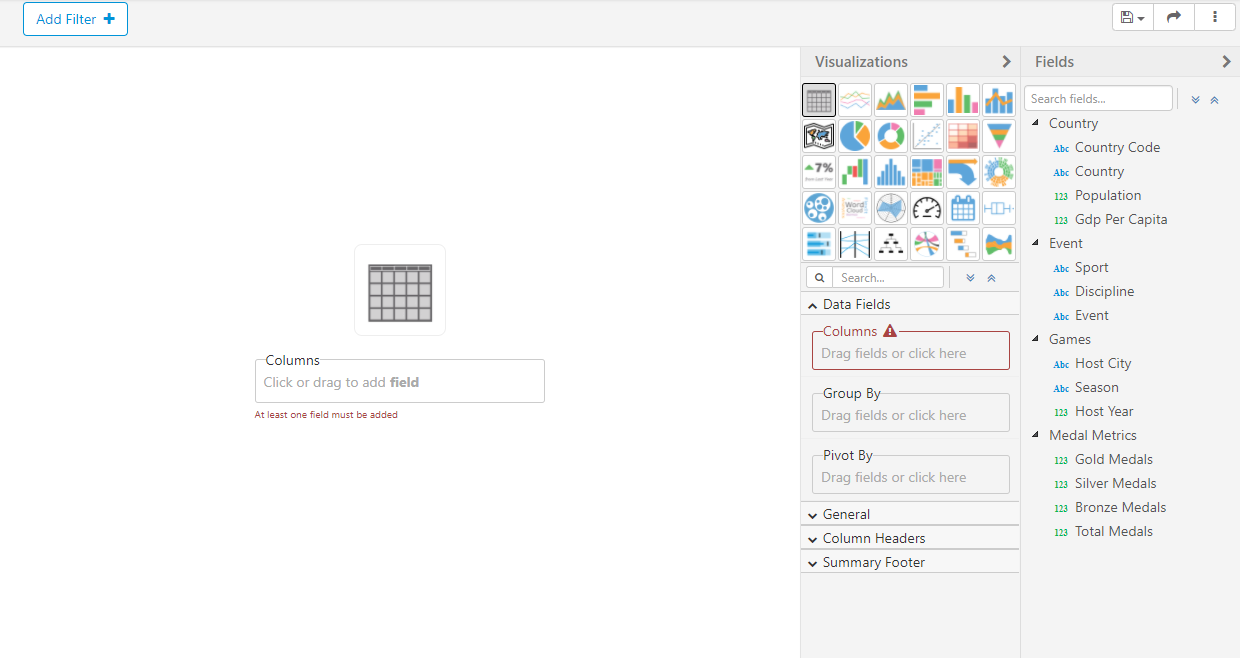
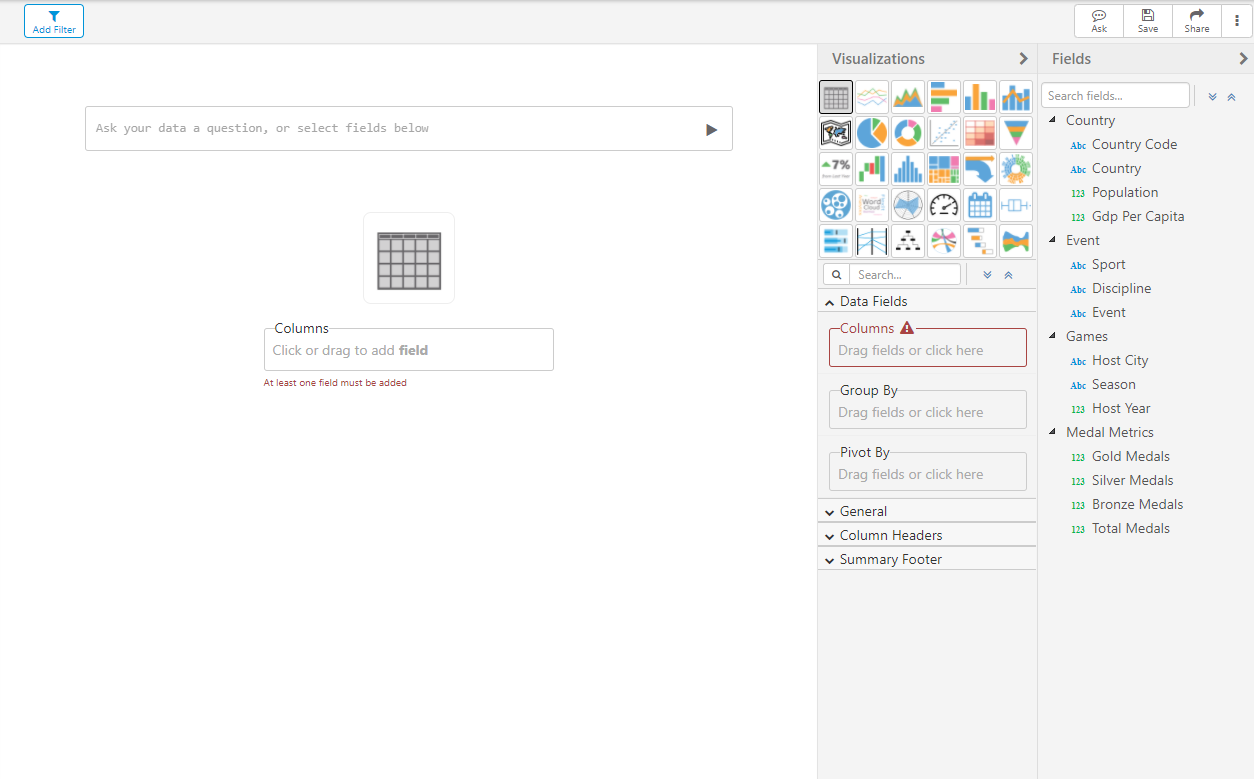
2021.11.001
Update docs for 2021.11.001

diff --git a/docs/report.md b/docs/report.md
@@ -252,6 +252,12 @@ The report menu is located in the top-right of the report and is used for the fo
 
 > **Report Backup/Migration** - copy/paste from the report Specification to save as a backup or open report from specs
 
+### Natural Language Query
+
+Natural language query allows you to use text to generate a report by asking a question, similar to a Google search. For example, `show me Top 10 Gold Medals by Country on a Column Chart` will get you a `Column Chart` with the `Gold Medals` metric and the top 10 `Country` dimension. On a new report, just enter text in the search input in the middle of the page. On an existing report, click the `Ask` button in the top-right.
+
+![](/img/report/nlp.png)
+
 ## Builder Page
 
 The *Builder Page* allows you to create your report without live (ad-hoc) data. You can add fields, prompts/filters, pivots, etc. When you're done building, you can click *Run Report* and start working with the data. 

diff --git a/docs/new.md b/docs/new.md
@@ -9,6 +9,11 @@ sidebar_label: Release History
 
 This is a full list of new features, bug fixes, and other items for all versions of FlexIt Analytics. The version number is based on the year, month and number of release, such as 2018.09.001 (i.e. [Year].[Month].[Release] being the first release of September 2018.
 
+## 2021.11.001 - Natural Language Query
+* Added *Natural Language Processing* (NLP) to analyses
+* Snowflake Connector added
+* Rendering performance improvements
+
 ## 2021.10.001 - Visualization Overhaul
 * Complete visualization overhaul
 * Advanced viz configuration
